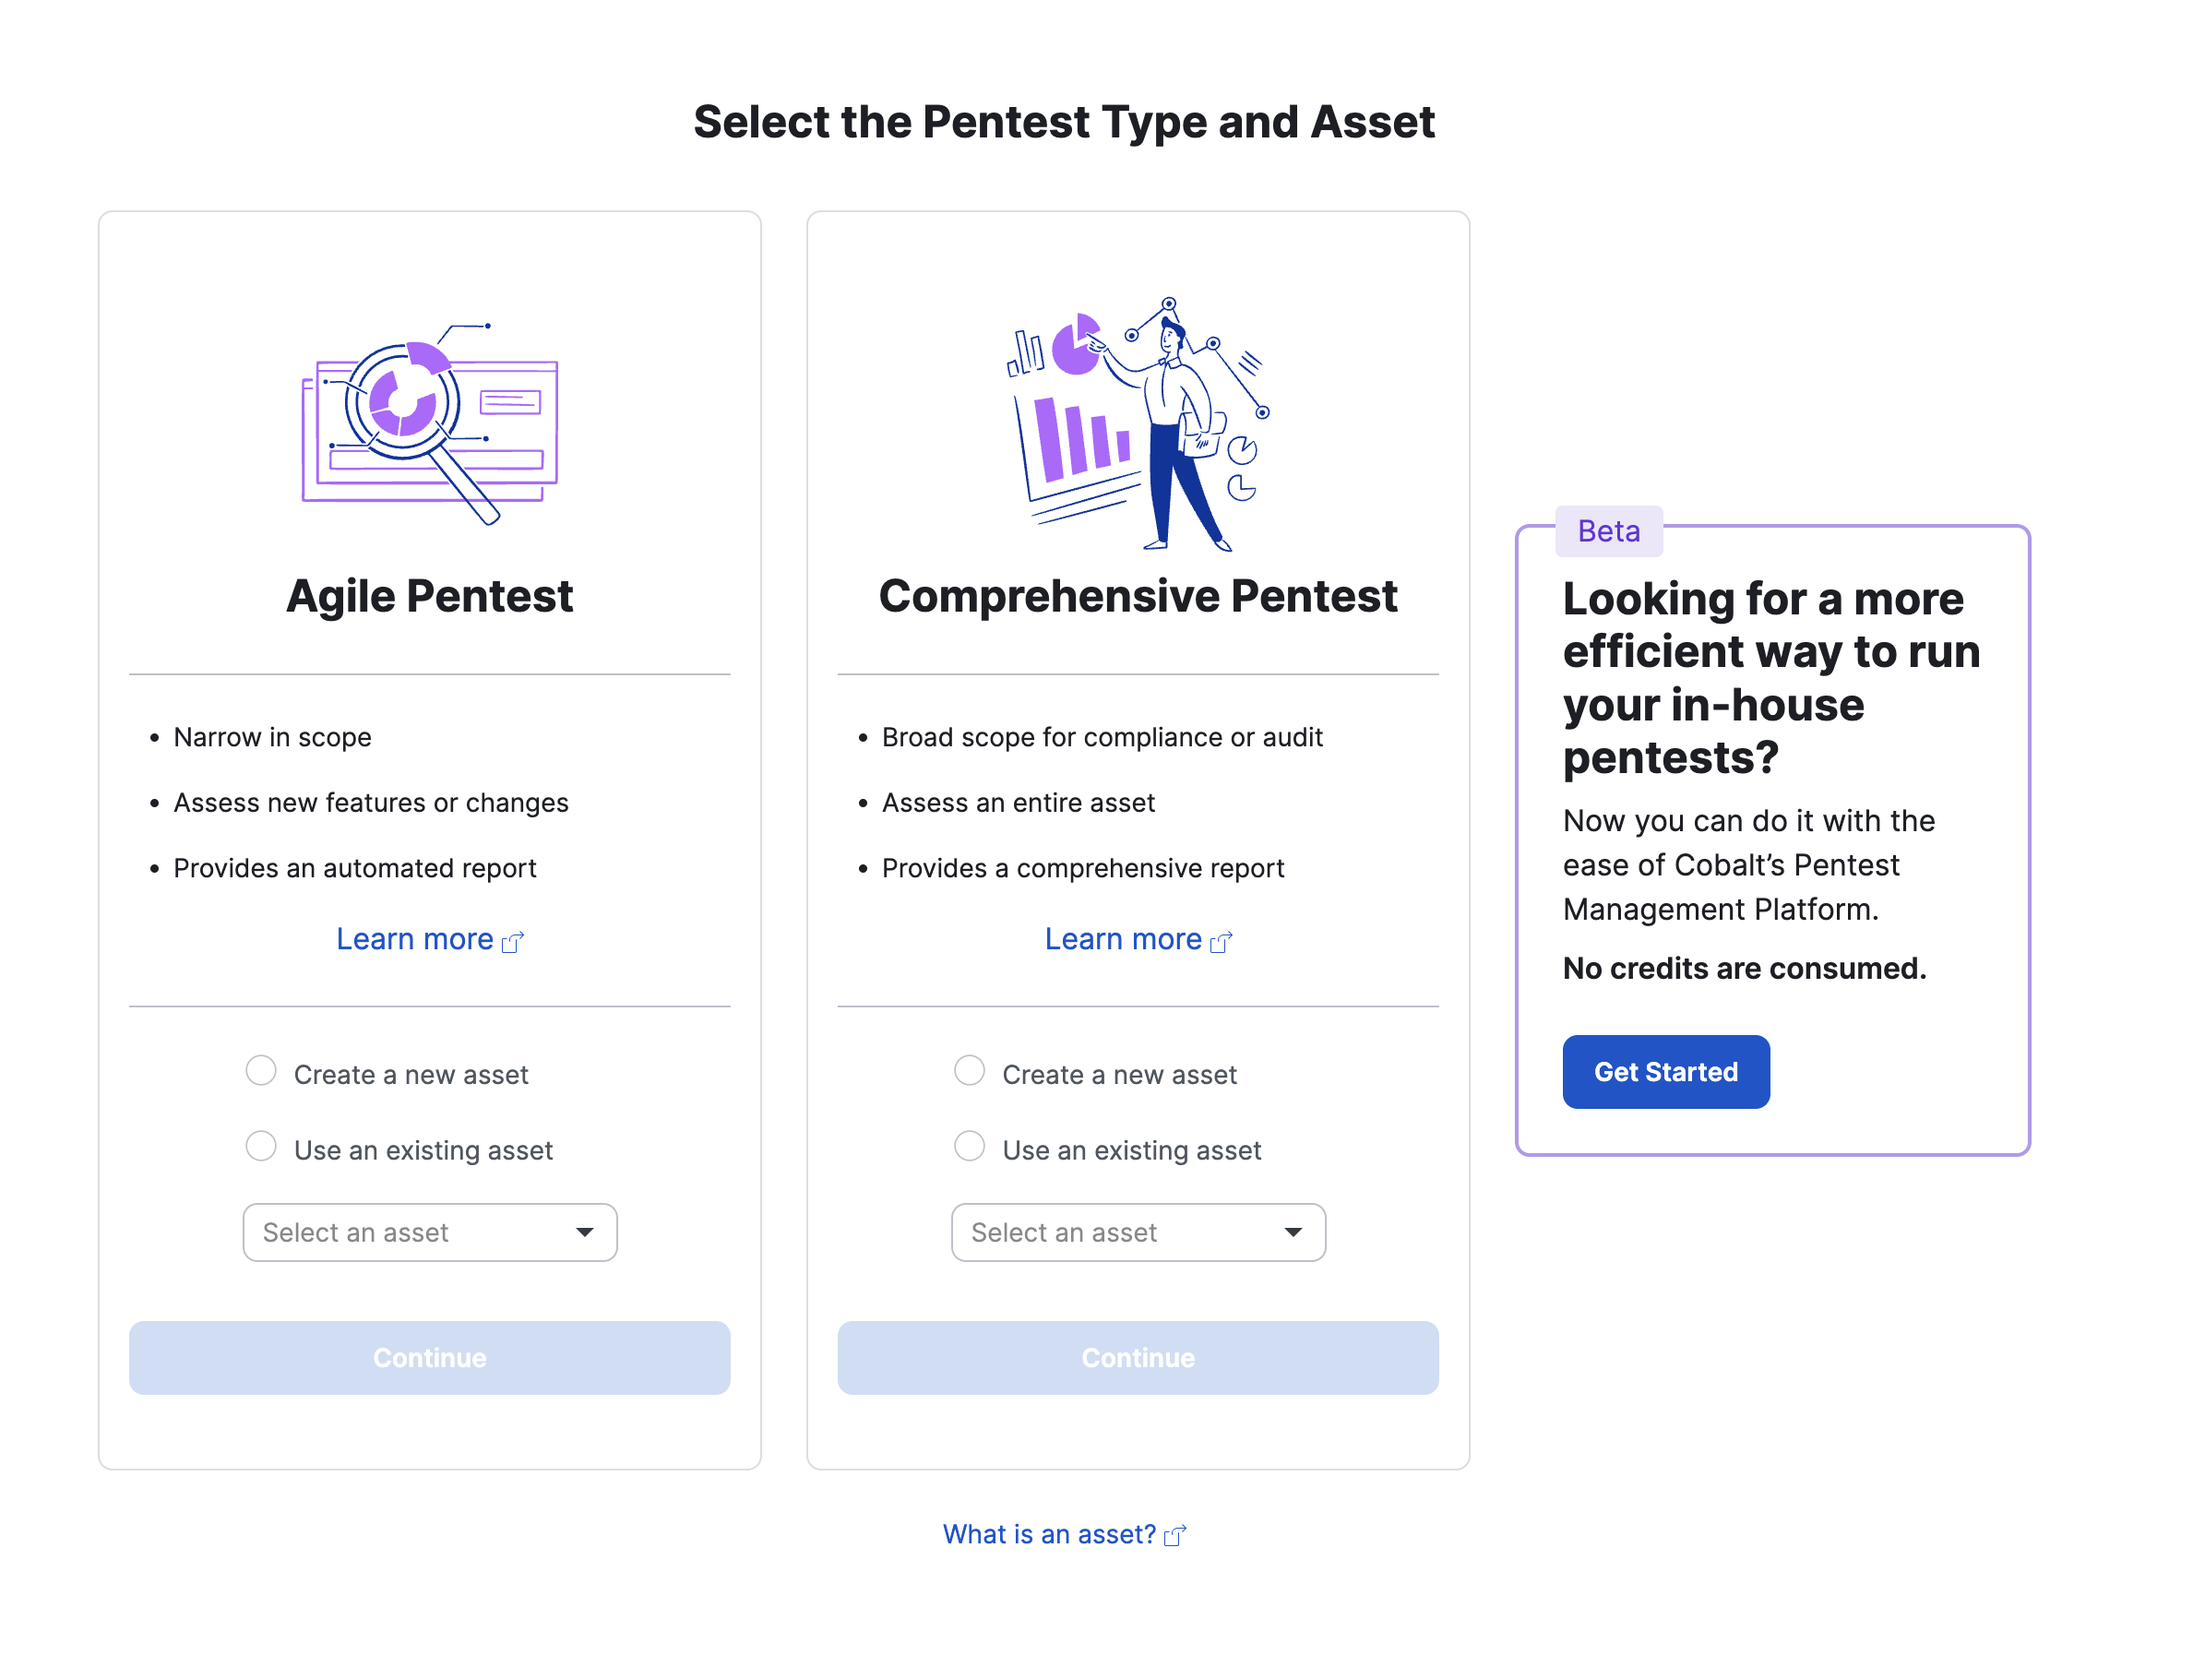
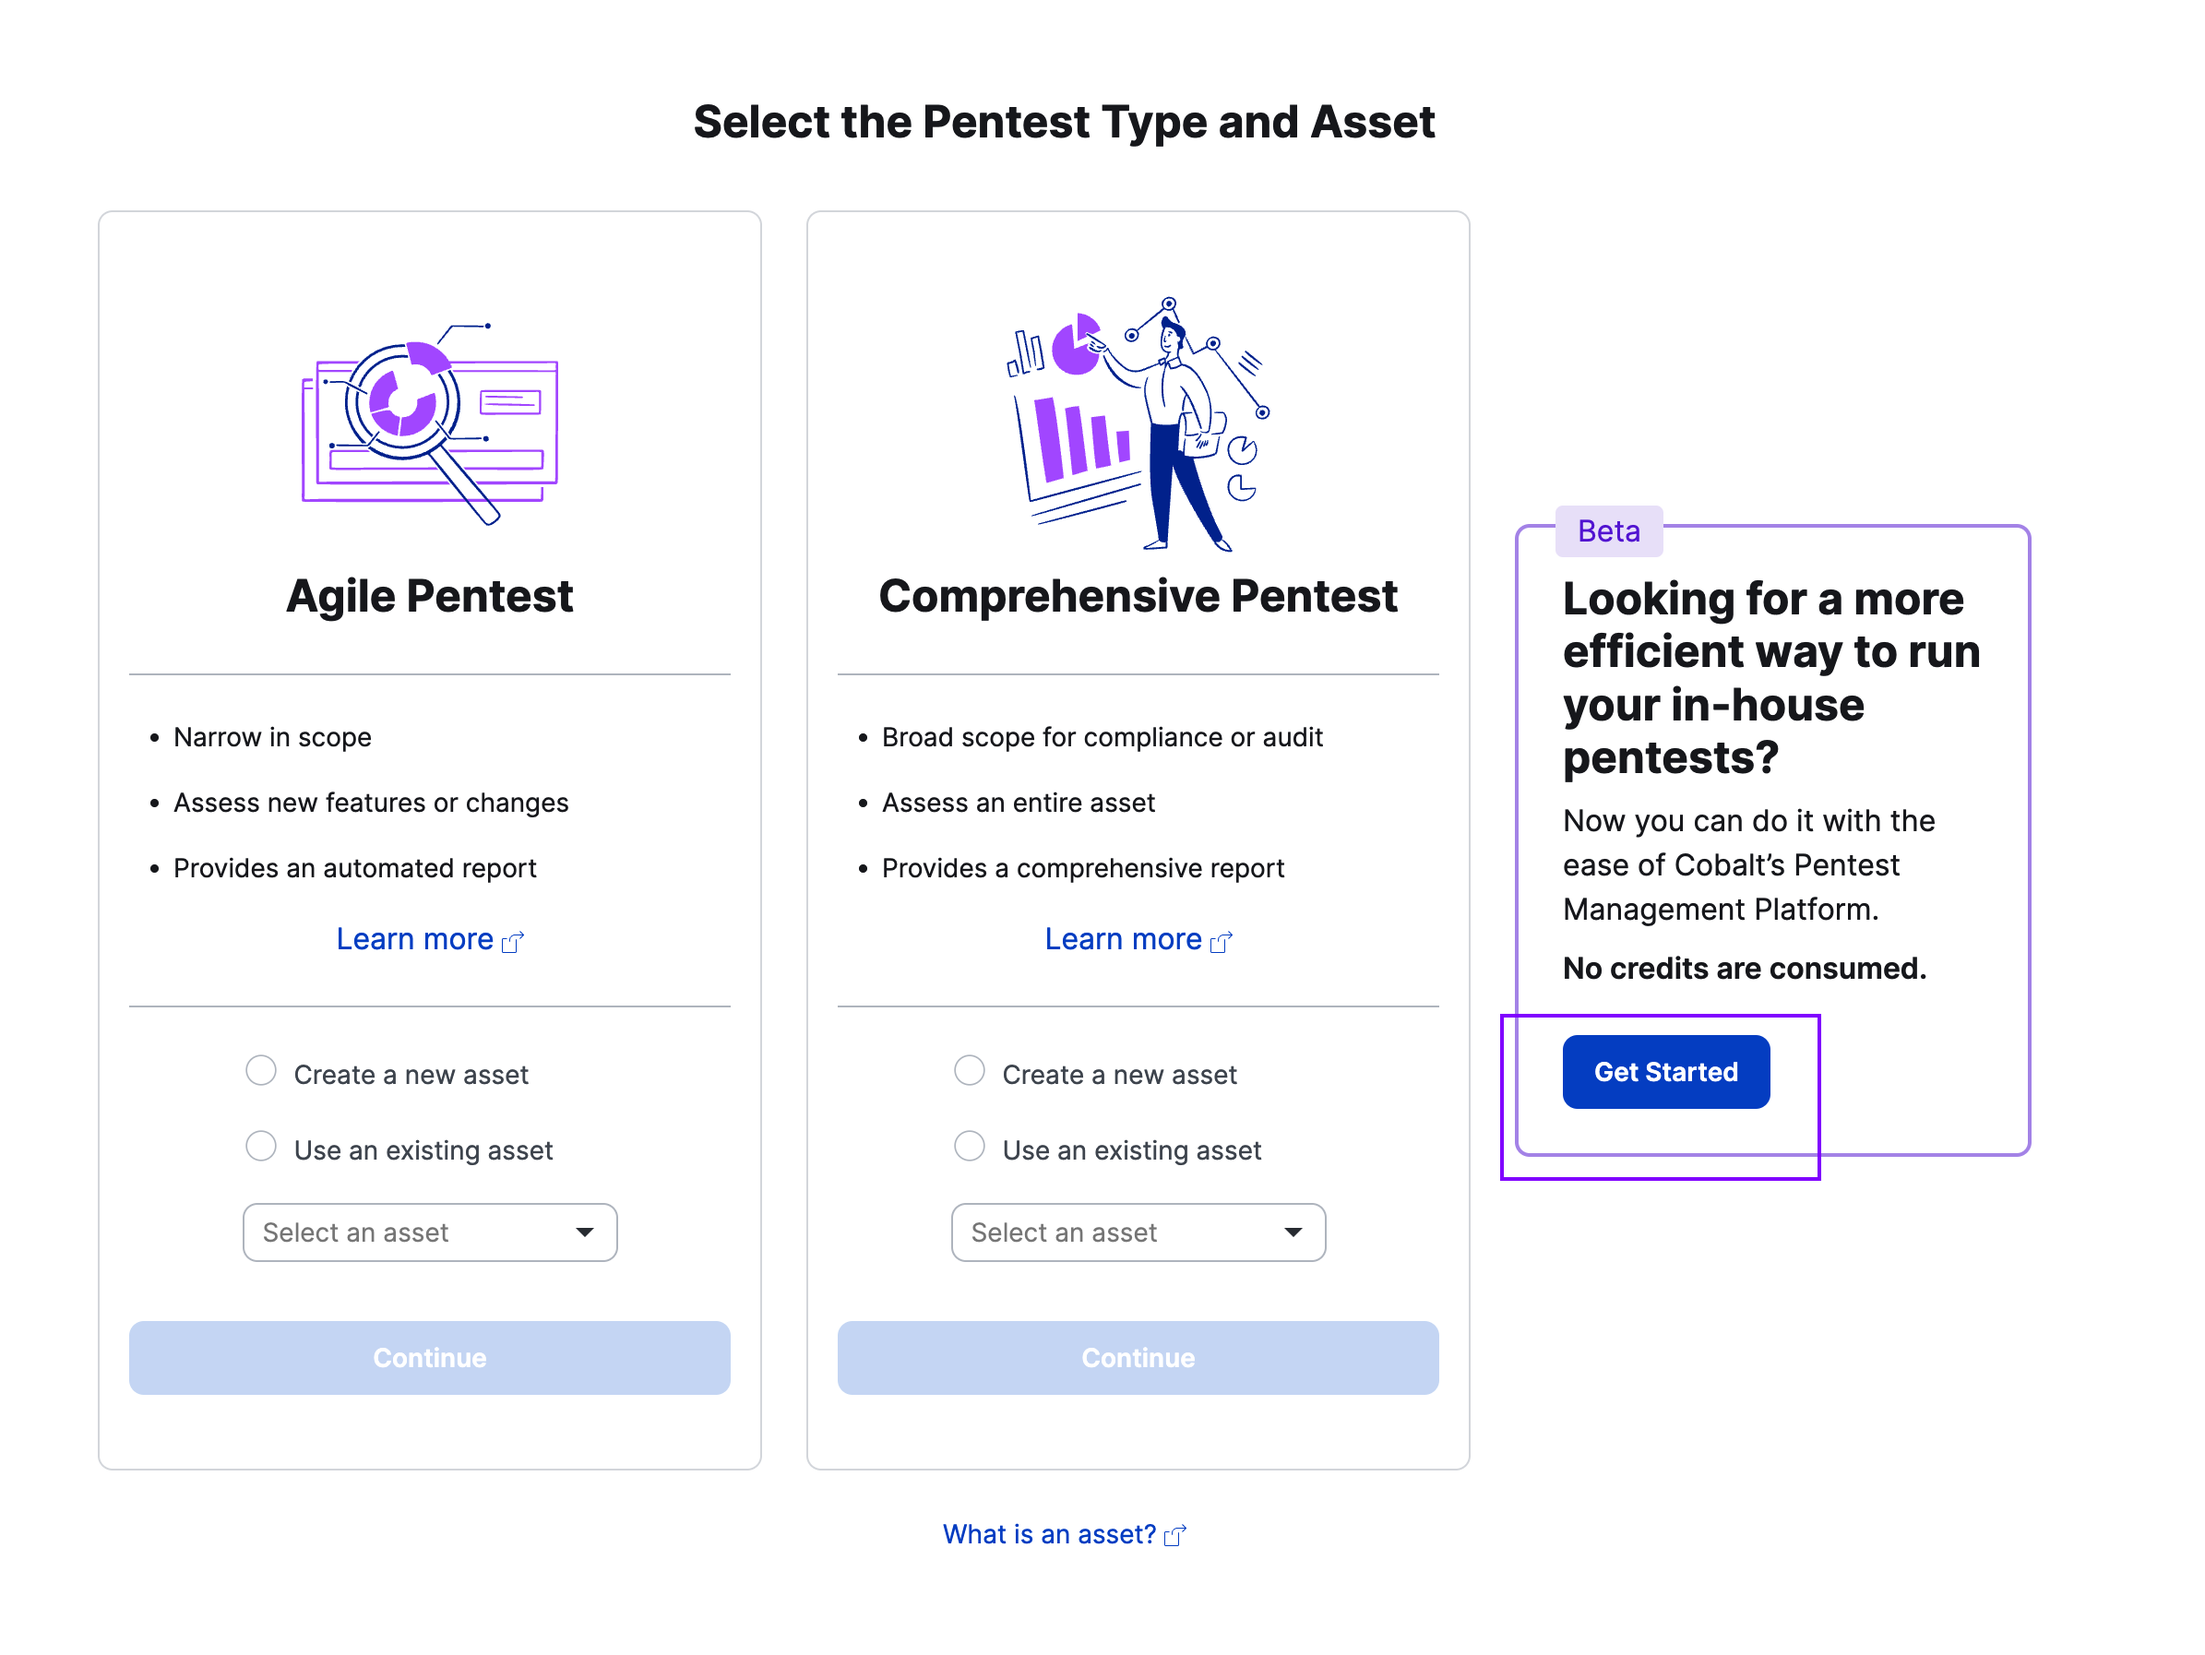
fix: progress with pentest creation

diff --git a/content/en/Integrations/Development/veriy-with-test-data.md b/content/en/Integrations/Development/veriy-with-test-data.md
@@ -48,7 +48,7 @@ For instance, if your Gmail address is `joeman@gmail.com`, you can create a new 
 
    ![Add secondary user](/integrations/Create-test-finding-add-secondary-user.png "Add secondary user")
 
-   > ℹ Since the primary email address is `kittaakos@gmail.com`, the secondary will be `kittaakos+1gmail.com`.
+   > ℹ Since the primary email address is `kittaakos@gmail.com`, the secondary will be `kittaakos+1gmail.com`.
 
 1. Click on the **Invite** button.
 
@@ -58,7 +58,7 @@ For instance, if your Gmail address is `joeman@gmail.com`, you can create a new 
 
    ![Verify secondary user invited](/integrations/Create-test-finding-verify-secondary-user-invited.png "Verify secondary user invited")
 
-   > ℹ You may need to scroll down in the list of people in your organization.
+   > ℹ You may need to scroll down in the list of people in your organization.
 
 1. Check your primary emails for the invitation of the secondary user.
 
@@ -81,31 +81,61 @@ For instance, if your Gmail address is `joeman@gmail.com`, you can create a new 
 
    > 🎉 You have successfully logged into Cobalt using your secondary user.
 
-![Open Pentests page](/integrations/Create-test-finding-open-pentests-page.png "Open Pentests page")
+## Create In-House Pentest (Primary user)
 
-![Create pentest](/integrations/Create-test-finding-create-pentest.png "Create pentest")
+1. Using your primary user, open the **Pentests** page from the sidebar and click on **Create Pentest**.
 
-![Get started with In-House Pentests](/integrations/Create-test-finding-get-started-with-inhouse-pentests.png "Get started with In-House Pentests")
+   ![Create pentest](/integrations/Create-test-finding-create-pentest.png "Create pentest")
 
-![Enter In-House Pentests Beta](/integrations/Create-test-finding-enter-inhouse-pentests.png "Enter In-House Pentests Beta")
+1. Click on **Get Started** if you have not yet enabled the **In-House Pentest Beta** feature for your organization.
 
-(need to do it once!)
+   ![Get started with In-House Pentests](/integrations/Create-test-finding-get-started-with-inhouse-pentests.png "Get started with In-House Pentests")
 
-![In-House Pentests Beta Enabled](/integrations/Create-test-finding-inhouse-pentests-enabled.png "In-House Pentests Beta Enabled")
+   >  ℹ You can skip this step if the **In-House Pentest Beta** feature is already enabled for your organization.
 
-![Create In-House Pentest](/integrations/Create-test-finding-create-inhouse-pentest.png "Create In-House Pentest")
+1. Click on **Enter the Beta** if you want to enable the **In-House Pentest Beta** feature.
 
-![Rename In-House Pentest](/integrations/Create-test-finding-rename-pentest.png "Rename In-House Pentest")
+   ![Enter In-House Pentests Beta](/integrations/Create-test-finding-enter-inhouse-pentests.png "Enter In-House Pentests Beta")
 
-![Set targets](/integrations/Create-test-finding-set-targets.png "Set targets")
+   >  ℹ You can skip this step if the **In-House Pentest Beta** feature is already enabled for your organization.
 
-![Set objectives](/integrations/Create-test-finding-set-objectives.png "Set objectives")
+1. Select the **In-House Pentest** type and asset you want to test, then click on **Continue**.
 
-![Set technology stack](/integrations/Create-test-finding-set-technology-stack.png "Set technology stack")
+   ![In-House Pentests Beta Enabled](/integrations/Create-test-finding-inhouse-pentests-enabled.png "In-House Pentests Beta Enabled")
 
-![Optional details](/integrations/Create-test-finding-optional-details.png "Optional details")
+   ![Create In-House Pentest](/integrations/Create-test-finding-create-inhouse-pentest.png "Create In-House Pentest")
 
-![Configure plan](/integrations/Create-test-finding-configure-plan.png "Configure plan")
+   >  ℹ You can create a dedicate asset for testing purposes or use an existing one.
+
+1. You can leave the **Asset** page by clicking on **Next**
+
+   ![Rename In-House Pentest](/integrations/Create-test-finding-rename-pentest.png "Rename In-House Pentest")
+
+   > ℹ Changing the pentest name is optional but helps to distinguish test pentests from each other. The pentest can be renamed ny clicking on the pencil icon next to the pentest name and confirm the changes with **Done**.
+
+1. On the **Requirement** page, the following information must be provided:
+
+   - Targets,
+   - Objectives, and
+   - Technology stack.
+
+   ![Set targets](/integrations/Create-test-finding-set-targets.png "Set targets")
+
+   ![Set objectives](/integrations/Create-test-finding-set-objectives.png "Set objectives")
+
+   ![Set technology stack](/integrations/Create-test-finding-set-technology-stack.png "Set technology stack")
+
+   >  ℹ The input content is irrelevant.
+
+1. No changes are required on the **Details** page. Proceed by clicking on **Next**.
+
+   ![Optional details](/integrations/Create-test-finding-optional-details.png "Optional details")
+
+1. Select the required **Start** and **End** dates on the **Scope & Plan** page, and click on **Save & Exit** to finish the wizard.
+
+   ![Configure plan](/integrations/Create-test-finding-configure-plan.png "Configure plan")
+
+   > ℹ It is recommended to check the _I'm a point of contact for this pentest_ checkbox.
 
 ![Pentest created](/integrations/Create-test-finding-pentest-created.png "Pentest created")
 
